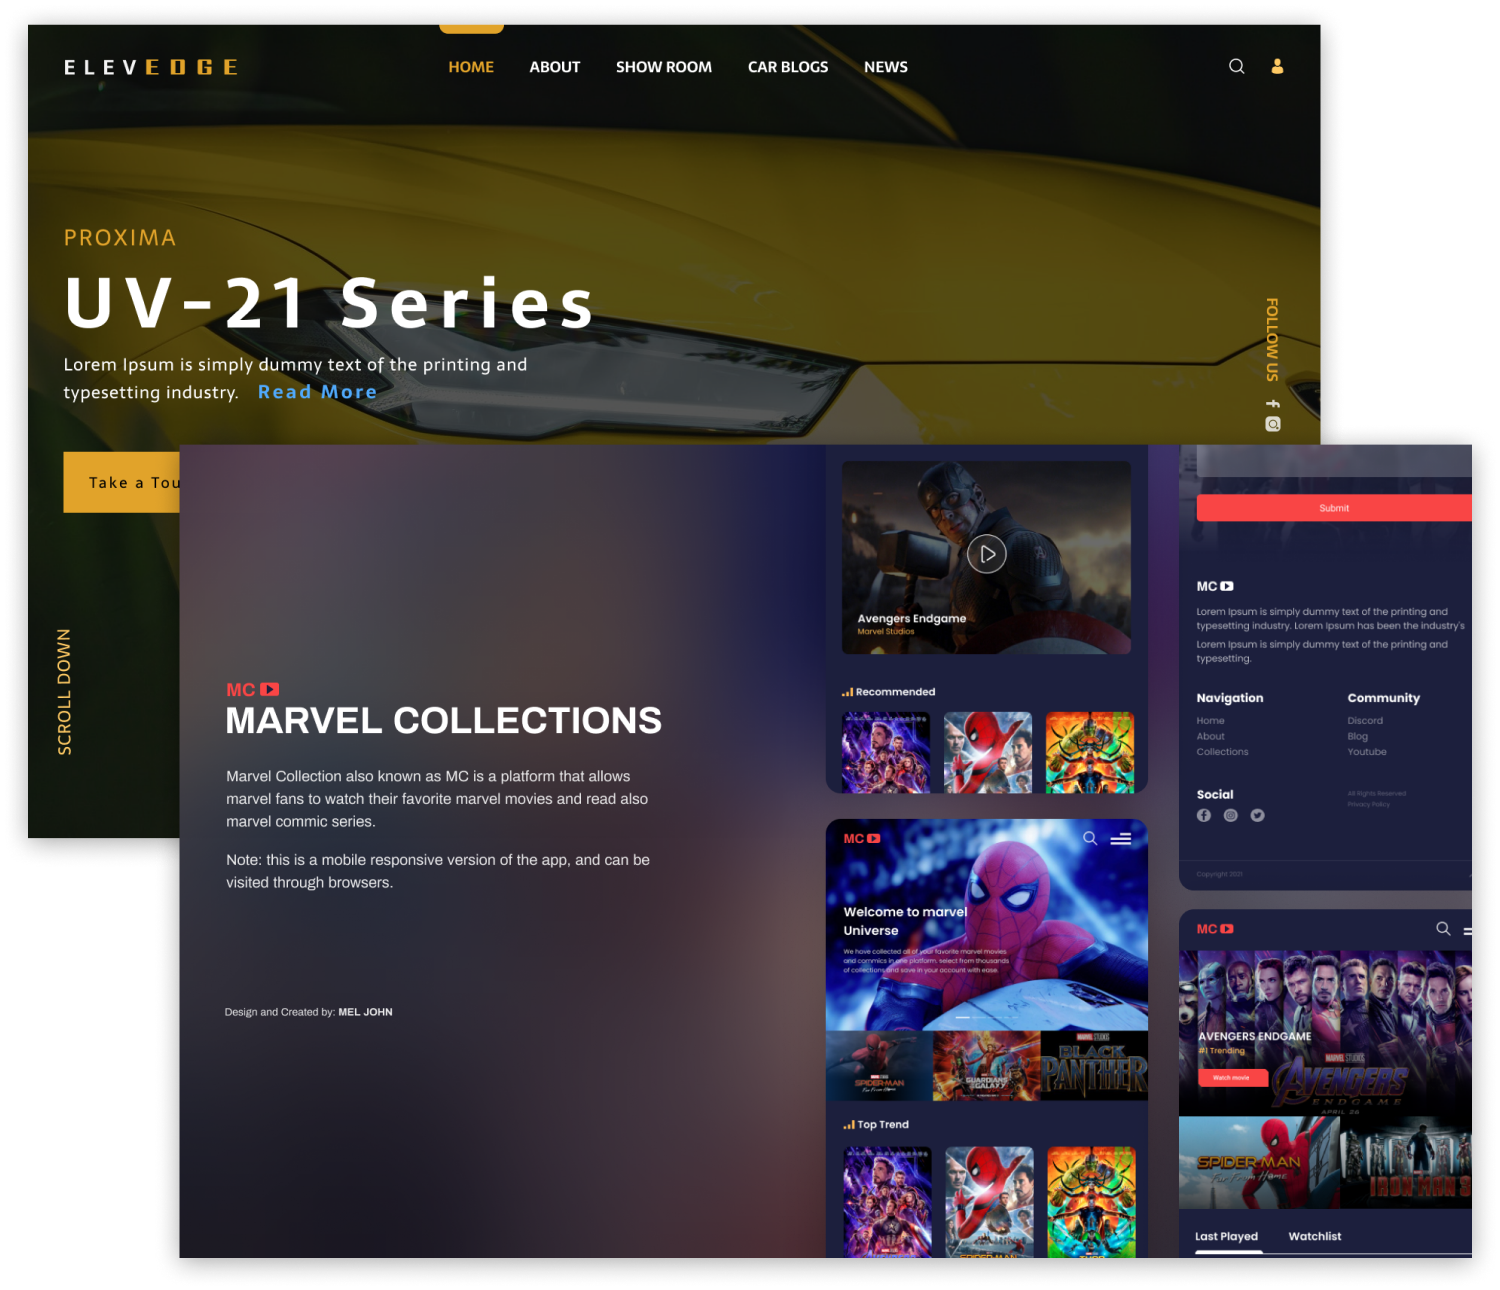
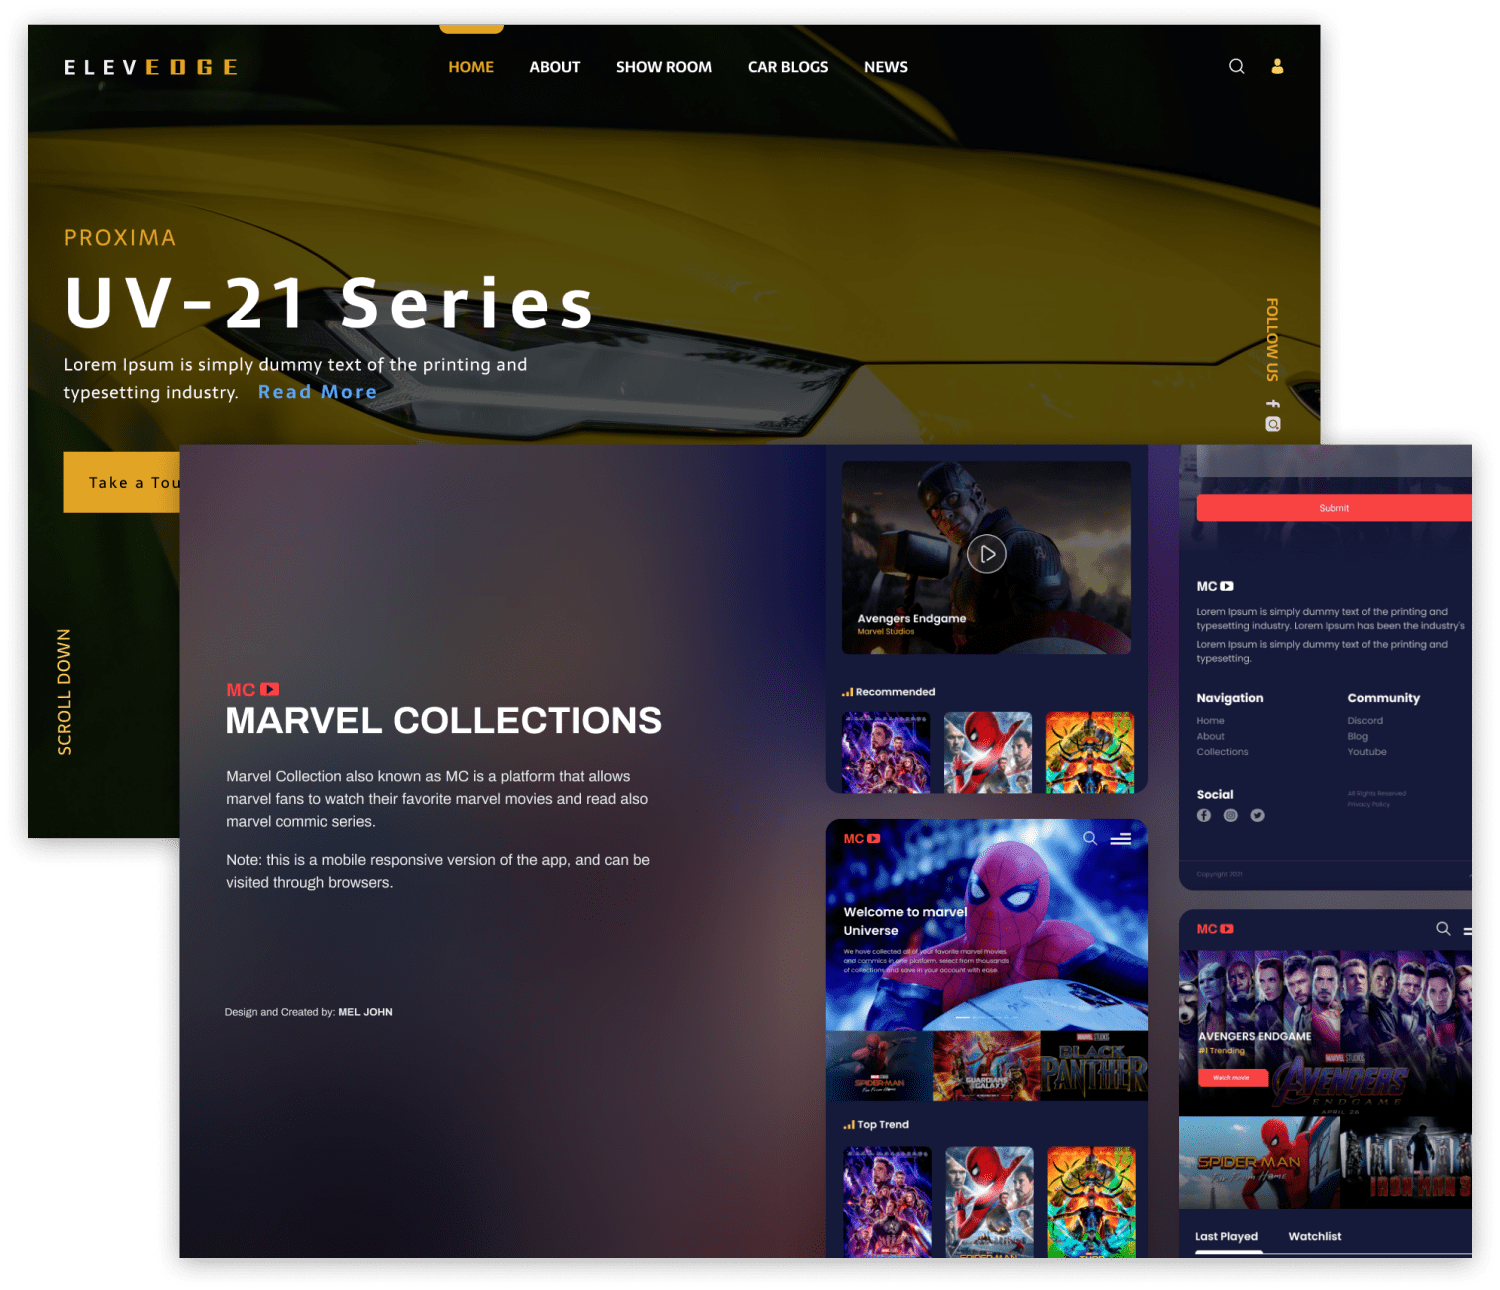
updated images in lighter sizes

diff --git a/src/components/Footer.js b/src/components/Footer.js
@@ -25,13 +25,6 @@ const Footer = () => {
         document.querySelector('#inputMessage').value = ''
     }
 
-    // const handleNullValue = (e) => {
-    //     console.log('cleared text')
-    //     // document.querySelector('#inputName').value = ''
-    //     // document.querySelector('#inputEmail').value = ''
-    //     // document.querySelector('#inputMessage').value = ''
-    // }
-
     return (
         <div className="section-footer" style={{
             background: `url("${footerBg}")`,
